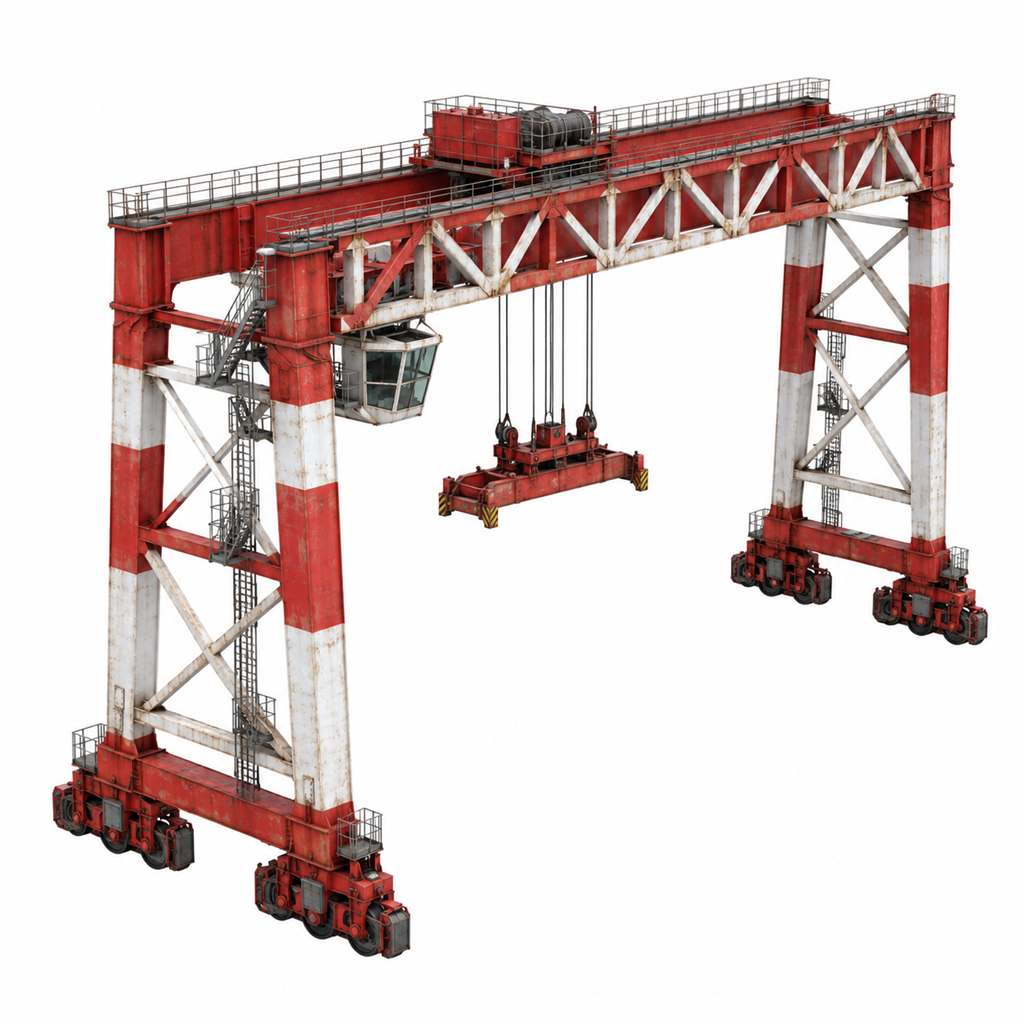
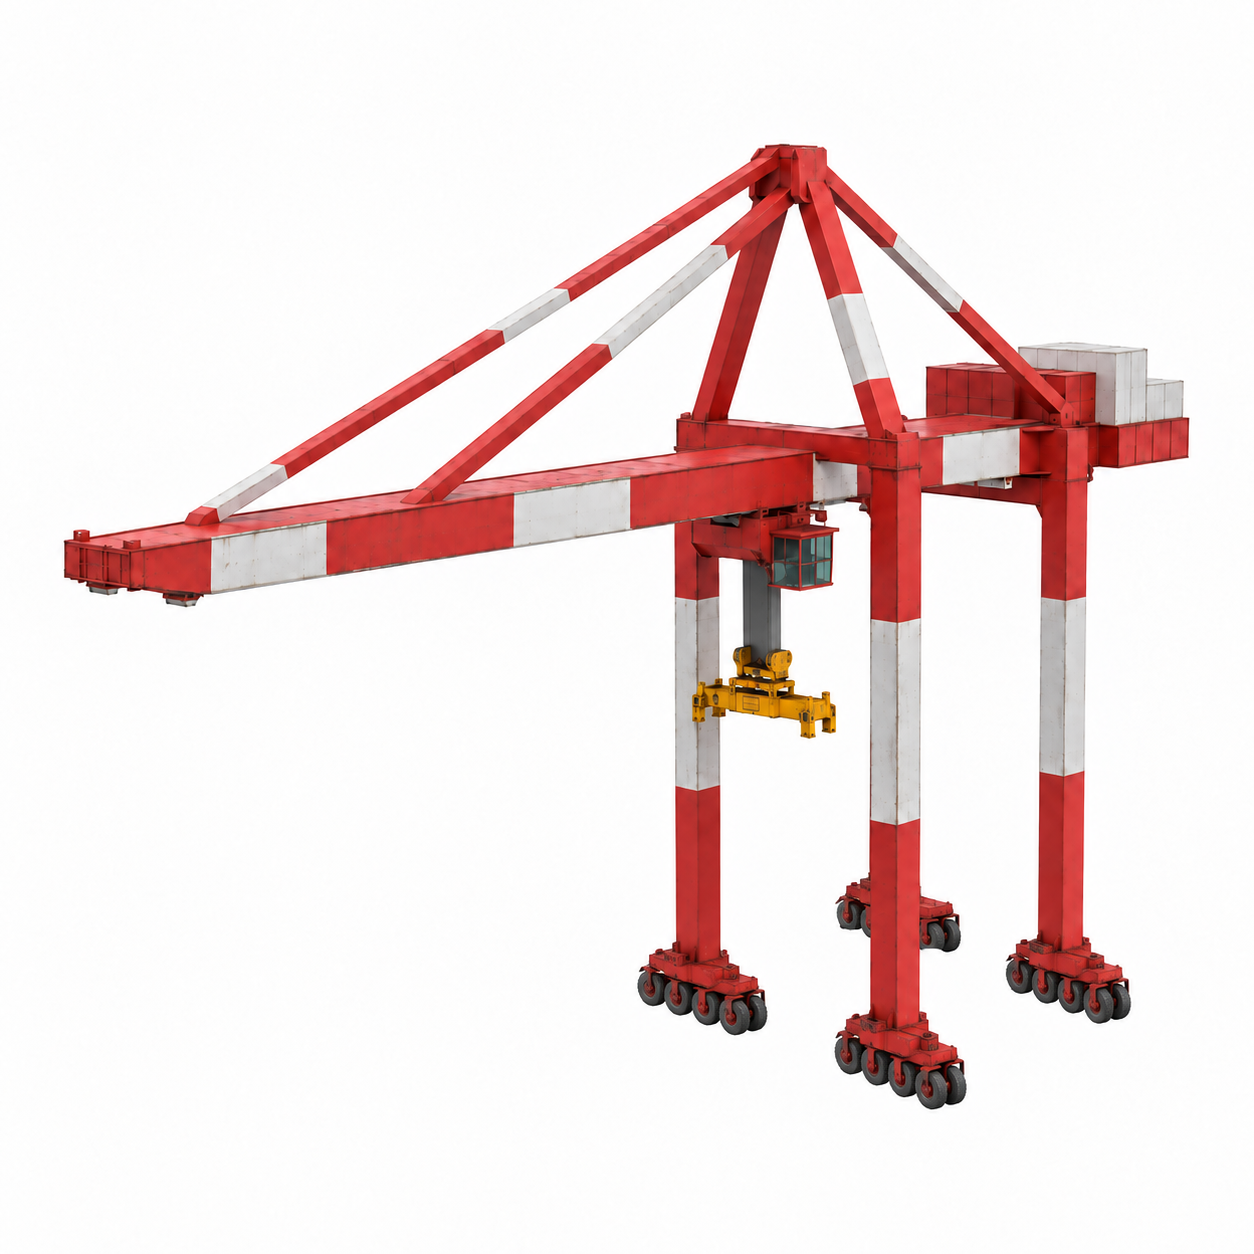
Bildvorlagen Runde 3 (Stadtbäume mit dichter Krone), Kran-Bild aus korrigierter Fassung, Netzprüfung

diff --git a/tools/make_image_prompts.py b/tools/make_image_prompts.py
@@ -73,6 +73,20 @@ OBJEKTE = {
     "stadt_schild_kurve": ("Verkehrsschild Kurve", "Ein Verkehrszeichen „Kurve rechts“ (roter Rand, weißes Dreieck, schwarzer Kurvenpfeil) an einem grauen Rohrpfosten, ohne Schrift."),
     "stadt_schild_kaputt": ("Beschädigtes Verkehrsschild", "Ein beschädigtes Verkehrszeichen: runder Richtungspfeil-Schild, verbogen und schief am geknickten Pfosten, zerkratzt, mit Rost und einer Delle, ohne Schrift."),
     "stadt_baum": ("Straßenbaum", "Eine junge Platane als Straßenbaum mit gleichmäßiger, runder Krone, Baumscheibe mit gusseisernem Gitter am Fuß."),
+    # Runde 3: Bäume fürs Stadt-Diorama. Von oben (Zeichenansicht) zählt die Krone: dicht, rund, geschlossen; kein Baumrost.
+    "stadt_baum_linde": ("Stadtlinde", "Eine ausgewachsene Stadtlinde im Hochsommer: gerader, kräftiger Stamm und eine sehr dichte, rundliche, "
+                         "vollständig geschlossene Laubkrone ohne Lücken und ohne sichtbares Astgerüst, sattgrün mit helleren und dunkleren "
+                         "Blattbüscheln. Kein Baumrost, kein Gitter, kein Sockel, kein Pflaster und keine Erde am Fuß – der Stamm endet unten einfach. "
+                         "Etwa 9 m hoch, Krone etwa 7 m breit."),
+    "stadt_baum_ahorn": ("Spitzahorn", "Ein ausgewachsener Spitzahorn im Sommer: eiförmige, sehr dichte und geschlossene dunkelgrüne Krone mit "
+                         "gelappten Blättern, kurzer gerader Stamm. Keine Lücken in der Krone, kein sichtbares Astgerüst, kein Baumrost, "
+                         "kein Gitter, kein Sockel, kein Boden am Fuß. Etwa 8 m hoch, Krone etwa 6 m breit."),
+    "stadt_baum_platane": ("Platane", "Eine große Platane im Sommer: helle, fleckige Rinde am kräftigen Stamm, darüber eine breite, dichte, leicht "
+                           "unregelmäßige, geschlossene Laubkrone in mittlerem Grün. Keine Lücken, kein sichtbares Astgerüst, kein Baumrost, "
+                           "kein Gitter, kein Sockel, kein Boden am Fuß. Etwa 11 m hoch, Krone etwa 9 m breit."),
+    "stadt_baum_kastanie": ("Rosskastanie", "Eine Rosskastanie im Sommer: kuppelförmige, sehr dichte, geschlossene Krone aus großen, handförmigen "
+                            "Blättern in sattem Dunkelgrün, kräftiger dunkler Stamm. Keine Lücken, kein sichtbares Astgerüst, kein Baumrost, "
+                            "kein Gitter, kein Sockel, kein Boden am Fuß. Etwa 10 m hoch, Krone etwa 8 m breit."),
     "stadt_brunnen": ("Stadtbrunnen", "Ein runder Stadtbrunnen aus hellem Stein mit zweistufiger Schale in der Mitte, das Wasser als klare, stehende Oberfläche."),
     "stadt_bank": ("Parkbank", "Eine Parkbank mit gusseisernen Seitenteilen und Holzlatten."),
     "stadt_bushaltestelle": ("Bushaltestelle", "Ein modernes Bushaltestellen-Häuschen aus Glas und Stahl mit Sitzbank und leerer, weißer Plakatfläche an der Seite."),
@@ -201,6 +215,9 @@ Runde 2 (neue Strecken) – nur Beschreibungen, zu denen es in `bilder/` noch ke
 2. `hafen_*`, `serra_*`
 3. `jahrmarkt_*`, `steinbruch_*`
 4. `drift_*`, `kinder_*`
+
+Runde 3 (Stadt-Diorama): `stadt_baum_linde`, `stadt_baum_ahorn`, `stadt_baum_platane`, `stadt_baum_kastanie` –
+dichte, geschlossene Kronen ohne Baumrost (von oben soll man eine runde grüne Krone sehen, keinen „Reifen“).
 
 Gern mehrere Varianten eines Objekts als `name_2.png`, `name_3.png` – die beste wird ausgewählt.
 

diff --git a/art/bildvorlagen/LIESMICH.md b/art/bildvorlagen/LIESMICH.md
@@ -26,6 +26,9 @@ Runde 2 (neue Strecken) – nur Beschreibungen, zu denen es in `bilder/` noch ke
 3. `jahrmarkt_*`, `steinbruch_*`
 4. `drift_*`, `kinder_*`
 
+Runde 3 (Stadt-Diorama): `stadt_baum_linde`, `stadt_baum_ahorn`, `stadt_baum_platane`, `stadt_baum_kastanie` –
+dichte, geschlossene Kronen ohne Baumrost (von oben soll man eine runde grüne Krone sehen, keinen „Reifen“).
+
 Gern mehrere Varianten eines Objekts als `name_2.png`, `name_3.png` – die beste wird ausgewählt.
 
 Erzeugt mit `tools/make_image_prompts.py`.
